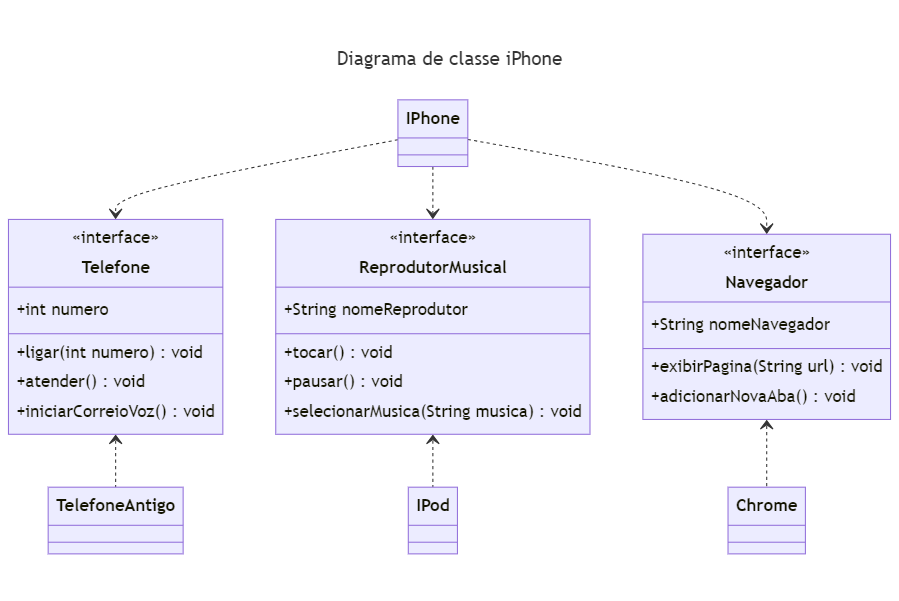
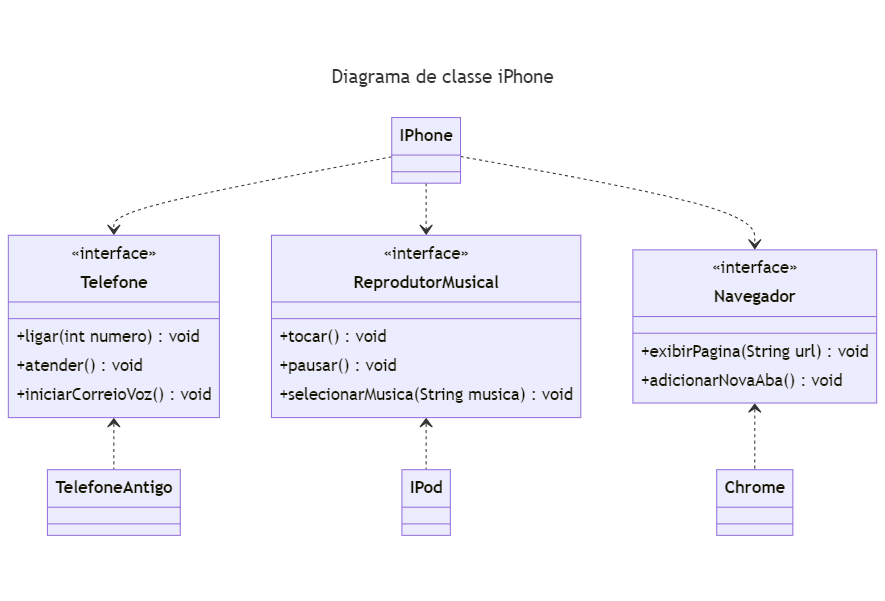
fix(diagram): diagram correction

diff --git a/README.md b/README.md
@@ -22,7 +22,6 @@ classDiagram
 
     class ReprodutorMusical
     <<interface>> ReprodutorMusical
-        ReprodutorMusical: +String nomeReprodutor
         ReprodutorMusical: +tocar() void
         ReprodutorMusical: +pausar() void
         ReprodutorMusical: +selecionarMusica(String musica) void
@@ -30,7 +29,6 @@ classDiagram
 
     class Telefone
     <<interface>> Telefone
-        Telefone: +int numero
         Telefone: +ligar(int numero) void
         Telefone: +atender() void
         Telefone: +iniciarCorreioVoz() void
@@ -38,7 +36,6 @@ classDiagram
 
     class Navegador
     <<interface>> Navegador
-        Navegador: +String nomeNavegador
         Navegador: +exibirPagina(String url) void
         Navegador: +adicionarNovaAba() void
     Navegador <.. Chrome

diff --git a/diagrama/diagrama-de-classe-iphone.md b/diagrama/diagrama-de-classe-iphone.md
@@ -10,7 +10,6 @@ classDiagram
 
     class ReprodutorMusical
     <<interface>> ReprodutorMusical
-        ReprodutorMusical: +String nomeReprodutor
         ReprodutorMusical: +tocar() void
         ReprodutorMusical: +pausar() void
         ReprodutorMusical: +selecionarMusica(String musica) void
@@ -18,7 +17,6 @@ classDiagram
 
     class Telefone
     <<interface>> Telefone
-        Telefone: +int numero
         Telefone: +ligar(int numero) void
         Telefone: +atender() void
         Telefone: +iniciarCorreioVoz() void
@@ -26,7 +24,6 @@ classDiagram
 
     class Navegador
     <<interface>> Navegador
-        Navegador: +String nomeNavegador
         Navegador: +exibirPagina(String url) void
         Navegador: +adicionarNovaAba() void
     Navegador <.. Chrome
